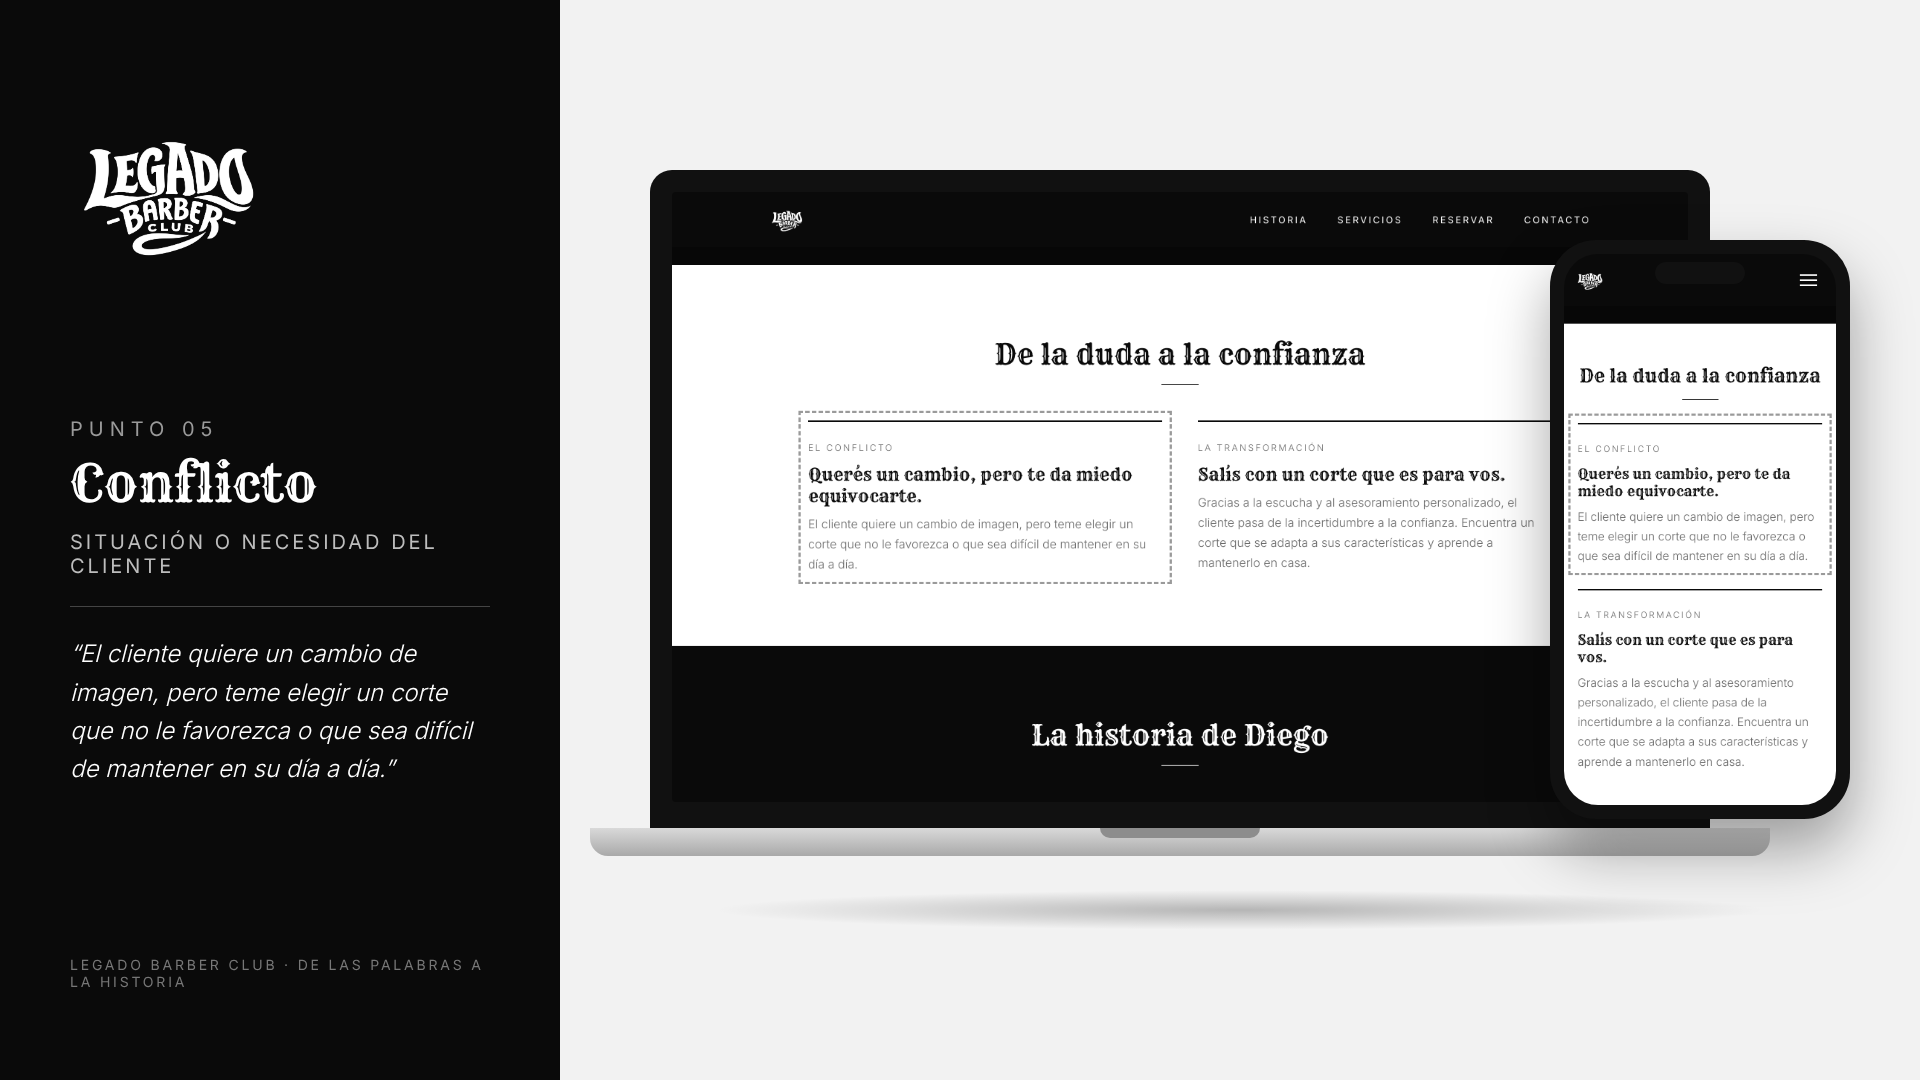
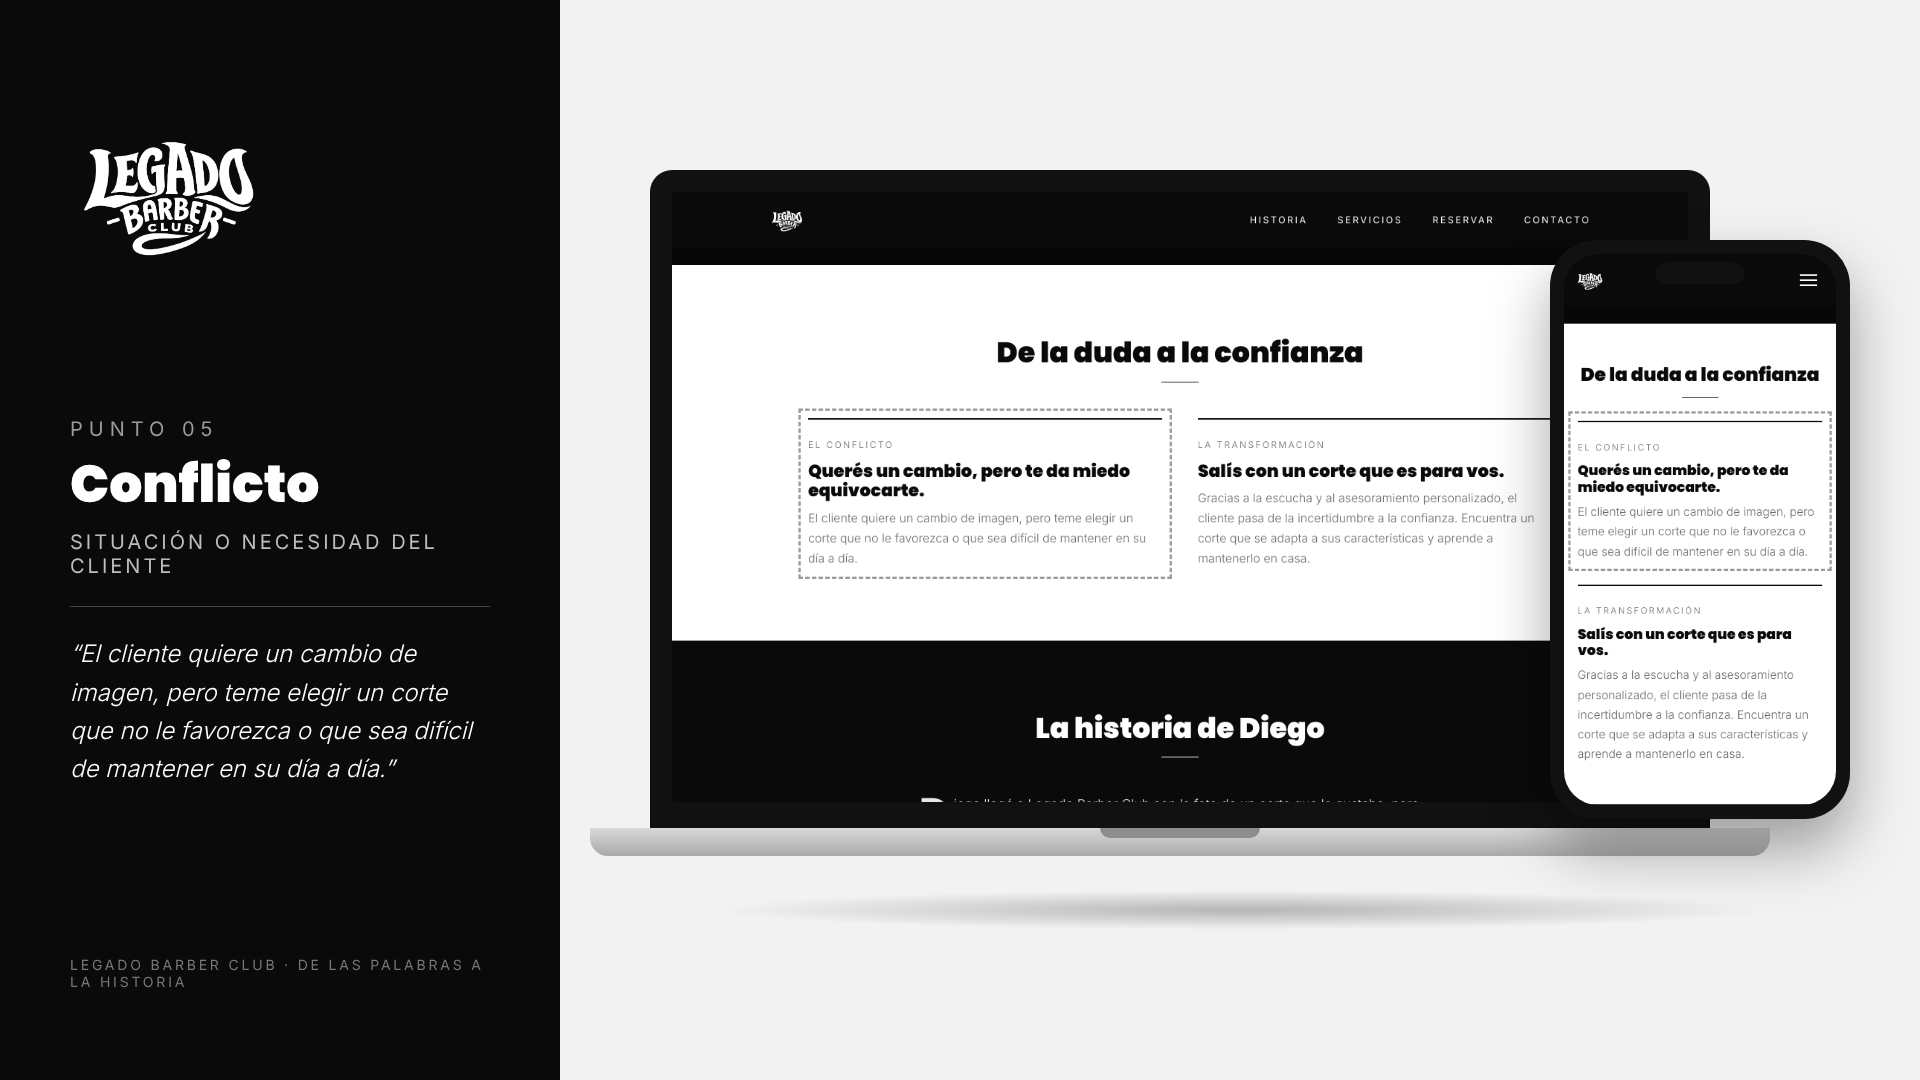
Títulos en Poppins Black y mockups actualizados
Claude-Session: https://claude.ai/code/session_01RobnzDRJb2ZKhNGXWR7zKK

diff --git a/styles.css b/styles.css
@@ -1,5 +1,5 @@
-/* Rye: tipografía vintage/western similar al logo. Inter: texto de lectura */
-@import url('https://fonts.googleapis.com/css2?family=Rye&family=Inter:wght@300;400;500&display=swap');
+/* Poppins Black: títulos gruesos y contundentes como el logo. Inter: texto de lectura */
+@import url('https://fonts.googleapis.com/css2?family=Poppins:wght@900&family=Inter:wght@300;400;500&display=swap');
 
 :root {
   --negro: #0a0a0a;
@@ -7,7 +7,7 @@
   --gris: #6b6b6b;
   --gris-claro: #e8e8e8;
   --blanco: #ffffff;
-  --display: 'Rye', Georgia, serif;
+  --display: 'Poppins', 'Arial Black', sans-serif;
   --nav-alto: 72px;
 }
 
@@ -19,7 +19,7 @@ body {
   overflow-x: hidden;
 }
 img { max-width: 100%; }
-h1, h2, h3 { font-family: var(--display); font-weight: 400; line-height: 1.25; }
+h1, h2, h3 { font-family: var(--display); font-weight: 900; line-height: 1.15; }
 
 /* ---------- Navegación ---------- */
 header { position: sticky; top: 0; z-index: 10; background: var(--negro); }
